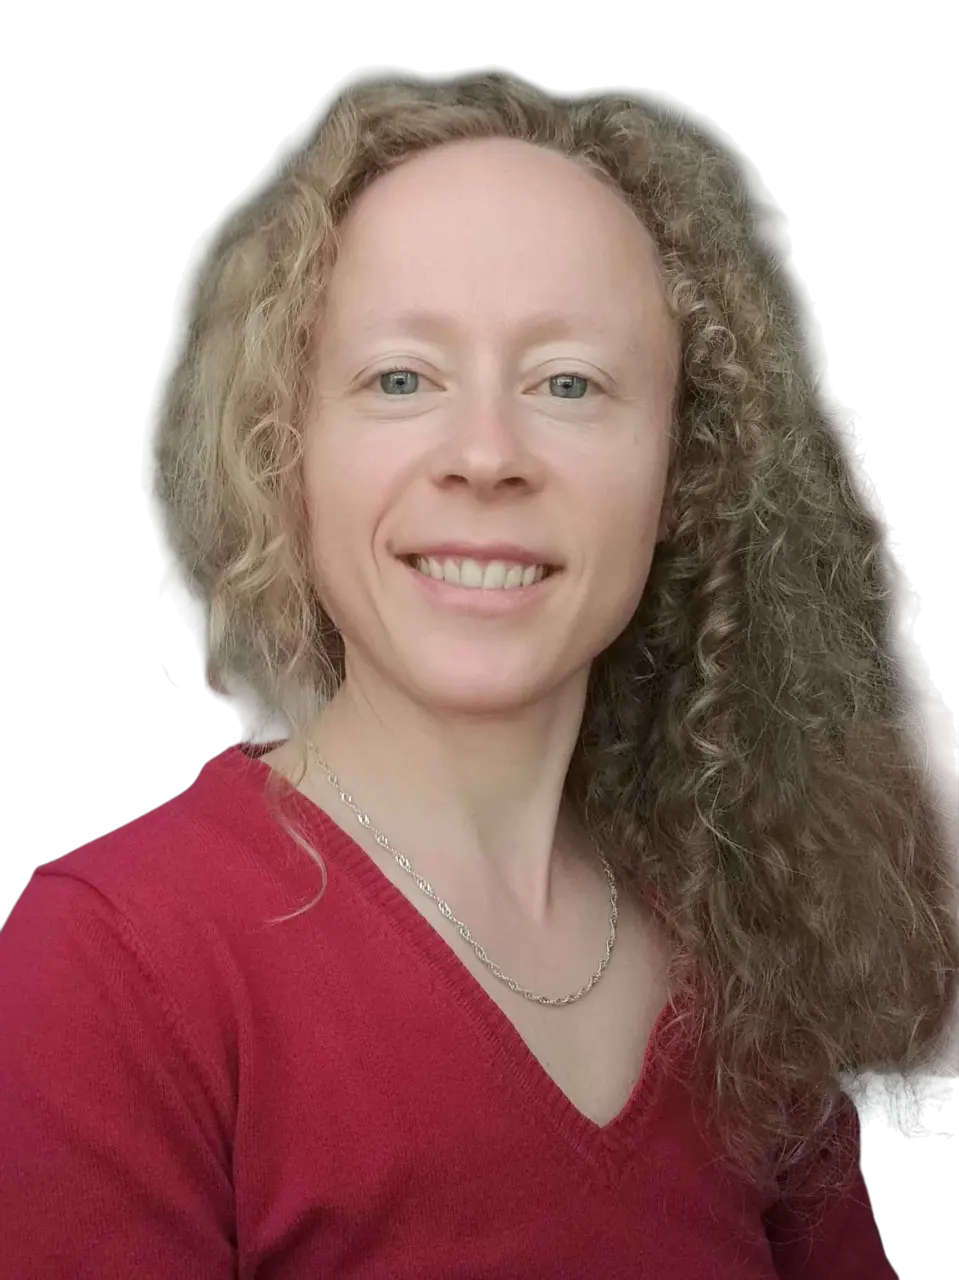
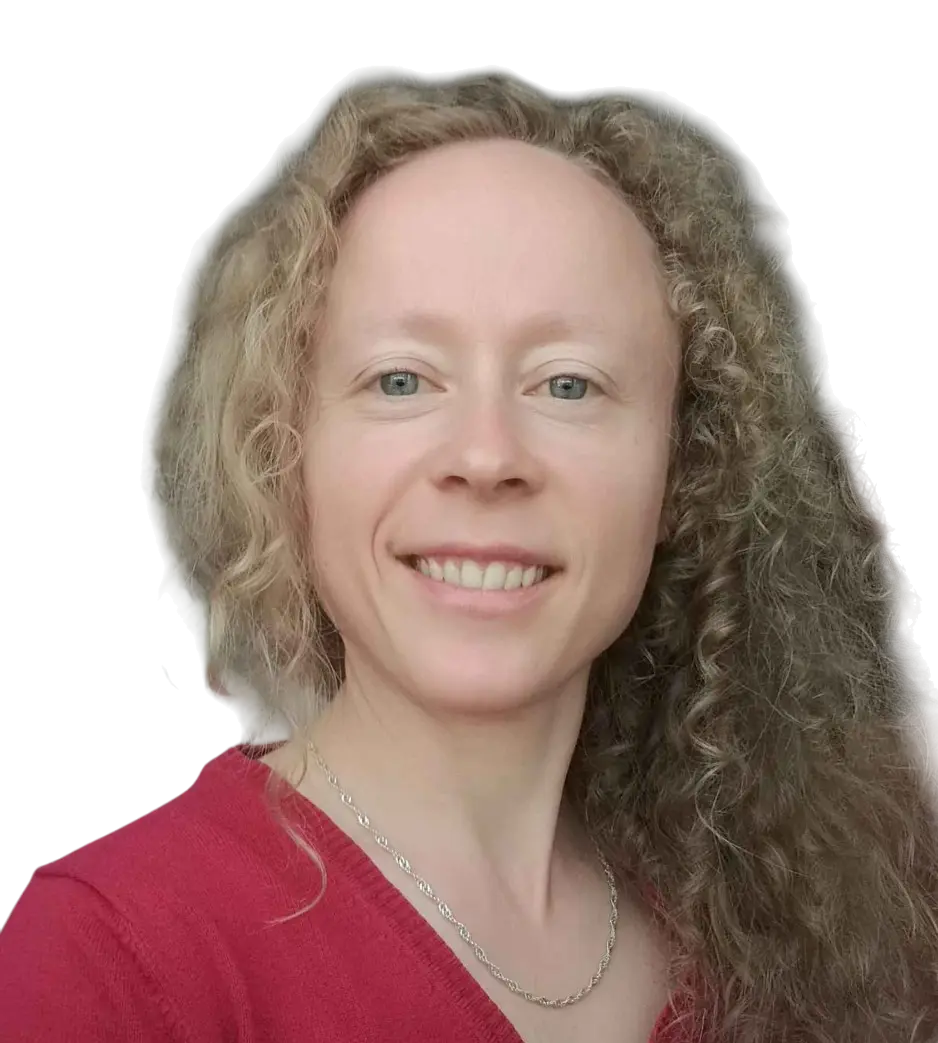
feat: add examples of my projects

diff --git a/index.css b/index.css
@@ -72,6 +72,8 @@ main {
   -webkit-box-flex: 1.5;
       -ms-flex-positive: 1.5;
           flex-grow: 1.5;
+          align-self: stretch;
+  background-color: var(--second-body-bg-color);
 }
 
 .right-block {
@@ -83,7 +85,6 @@ main {
       -ms-flex-positive: 3;
           flex-grow: 3;
   padding: 4rem 2.5rem 2rem 2.5rem;
-  position: relative;
 }
 
 h1, h3 {
@@ -114,6 +115,7 @@ h3.specialization {
   width: 100%;
   height: 30rem;
   overflow: hidden;
+  background-color: var(--body-bg-color);
 }
 
 .photo {
@@ -200,6 +202,7 @@ ul.experience-list li {
   border-left: 3px solid #000;
   padding-left: 30px;
   position: relative;
+  z-index: 0;
 }
 
 ul.experience-list li.main {
@@ -209,18 +212,19 @@ ul.experience-list li.main {
 
 ul.experience-list li::before {
   content: "";
-  width: 22px;
-  height: 22px;
+  width: 23px;
+  height: 23px;
   display: inline-block;
   background-size: cover;
   top: 3px;
   left: 5px;
-  margin-left: -17px;
+  margin-left: -18px;
   margin-right: 22px;
   background-image: url("assets/icons/icons8-dot-30.png");
   background-repeat: no-repeat;
   background-position: left center;
   position: absolute;
+  z-index: 999999;
 }
 
 ul.experience-list li.main::before {
@@ -283,6 +287,48 @@ ul.experience-detailed-info li::before {
 
 /* ---------------------------------- */
 
+.project-examples {
+  background-color: #F2F2F2;
+  padding: 1rem;
+}
+
+.projects-title-block {
+  display: flex;
+  justify-content: center;
+}
+
+.project-gallery {
+  display: grid;
+  grid-template-columns: repeat(2, 50%);
+}
+
+.project-photo-block {
+  display: flex;
+  justify-content: center;
+  align-items: center;
+  padding: 1rem;
+}
+
+.project-photo {
+  width: 100%;
+  height: auto;
+  transition: transform 1s ease;
+}
+
+.project-photo:hover {
+  transform: scale(1.5);
+}
+
+.project-photo-left {
+  transform-origin: top left;
+}
+
+.project-photo-right {
+  transform-origin: top right;
+}
+
+/* ---------------------------------- */
+
 @media screen and (max-width: 600px) {
   main {
     -webkit-box-orient: vertical;
@@ -320,7 +366,10 @@ ul.experience-detailed-info li::before {
     width: 20rem;
     border-radius: 50%;
   }
-  .photo {
-    object-fit: cover;
+  .project-gallery {
+    grid-template-columns: 100%;
   }
+  .project-photo:hover {
+    transform: none;
+  }  
 }

diff --git a/components/MyProjectsBlock.js b/components/MyProjectsBlock.js
@@ -1,0 +1,35 @@
+export default class MyProjectsBlock extends HTMLElement {
+    constructor() {
+        super();
+    }
+
+    render() {
+        const projects = [1,2,3,4,5,6,7,8].reduce((prev, curr) => {
+           return prev + `
+                <div class="project-photo-block">
+                    <img
+                        src="./assets/images/project_${curr}.webp"
+                        alt="my project photo N ${curr}"
+                        class="project-photo ${curr % 2 === 0 ? 'project-photo-right' : 'project-photo-left'}" />
+                </div>
+           `; 
+        }, '');
+        this.innerHTML = `
+            <div class="project-examples">
+                <div class="projects-title-block">
+                    <h3>Examples Of My Projects</h3>
+                </div>
+                <div class="project-gallery">
+                    ${projects}
+                </div>
+            </div>
+        `;
+    }
+
+    connectedCallback() {
+        if (!this.rendered) {
+            this.render();
+            this.rendered = true;
+        }
+    }
+}

diff --git a/main.js b/main.js
@@ -3,9 +3,11 @@ import ProfessionalProfileBlock from './components/ProfessionalProfileBlock.js';
 import SkillsBlock from './components/SkillsBlock.js';
 import MainTitleBlock from './components/MainTitleBlock.js';
 import ExperienceBlock from './components/ExperienceBlock.js';
+import MyProjectsBlock from './components/MyProjectsBlock.js';
 
 customElements.define('contacts-block', ContactsBlock);
 customElements.define('professional-profile-block', ProfessionalProfileBlock);
 customElements.define('skills-block', SkillsBlock);
 customElements.define('main-title-block', MainTitleBlock);
 customElements.define('experience-block', ExperienceBlock);
+customElements.define('my-projects', MyProjectsBlock);

diff --git a/index.html b/index.html
@@ -33,5 +33,6 @@
                 <experience-block></experience-block>
             </div>
         </main>
+        <my-projects></my-projects>
     </body>
 </html>
